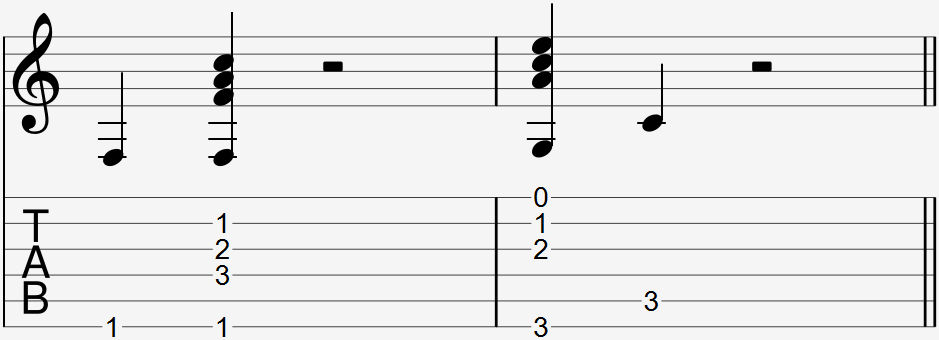
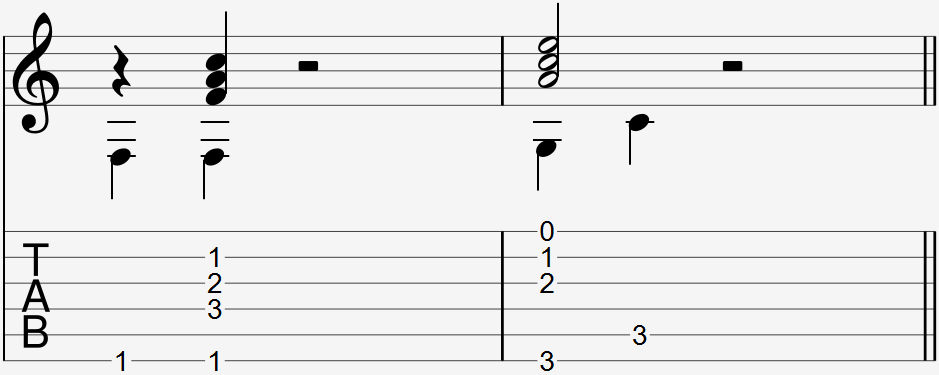
split all voicings into two

diff --git a/src/templates/technique-styling.js b/src/templates/technique-styling.js
@@ -123,5 +123,5 @@ export const Explanation = styled.div`
   }
 `
 export const VideoContainer = styled.div`
-  margin-bottom: 0.5em;
+  margin-bottom: 0;
 `

diff --git a/src/t/1-31/27-alternative-thumb-picking/alternative-thumb-picking.md b/src/t/1-31/27-alternative-thumb-picking/alternative-thumb-picking.md
@@ -27,7 +27,7 @@ There is no common way to notate alternatively thumb picked strings. Some sheet 
 
 ### Explanation
 
-The alternative thumb picking technique is used instead of regular picking to keep a group of notes sounding similar in tone, or to play <span class="tt" data-tip="the strinsg with the lower pitches, or at the bottom of the tab">lower strings</span> repeatedly while giving the other fingers convenient access to the others.
+The alternative thumb picking technique is used instead of regular picking to keep a group of notes sounding similar in tone, or to play <span class="tt" data-tip="the strings with the lower pitches, or at the bottom of the tab">lower strings</span> repeatedly while giving the other fingers convenient access to the others.
 
 To pick alternatively with the thumb, pick down with the underside of the thumb nail as you normally would, and pick upwards with the back of the thumbnail. Only pick upwards far enough for your thumb to be be below the string directly above the picked string.
 

diff --git a/src/t/1-31/1-thumb-slap/thumb-slap.md b/src/t/1-31/1-thumb-slap/thumb-slap.md
@@ -15,8 +15,6 @@ Video:
 - slap multiple strings no thumbpick
 - remake the videos with thumbpick later
 
-### Notation
-
 <div class="tabImg">
   <img src="thumb-slap.jpg" />
 </div>

diff --git a/src/t/1-31/2-thumb-slap-strum/thumb-slap-strum.md b/src/t/1-31/2-thumb-slap-strum/thumb-slap-strum.md
@@ -15,8 +15,6 @@ demo: https://youtu.be/dQw4w9WgXcQ
 exercises:
 ---
 
-### Notation
-
 <div class="tabImg">
   <img src="thumb-slap-strum.jpg" />
 </div>

diff --git a/src/t/1-31/3-thumb-slap-pluck/thumb-slap-pluck.md b/src/t/1-31/3-thumb-slap-pluck/thumb-slap-pluck.md
@@ -1,5 +1,5 @@
 ---
-id: 4
+id: 3
 g: t
 group: technique
 title: Thumb Slap Pluck

diff --git a/src/t/1-31/4-wrist-thump/wrist-thump.md b/src/t/1-31/4-wrist-thump/wrist-thump.md
@@ -1,5 +1,5 @@
 ---
-id: 3
+id: 4
 g: t
 group: technique
 title: Wrist Thump
